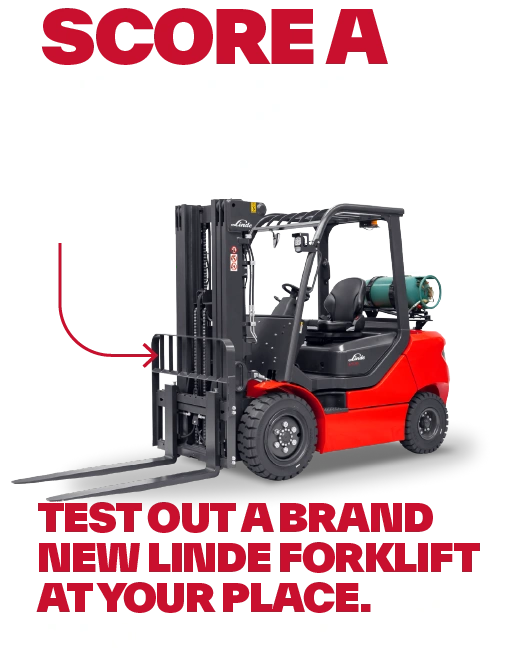
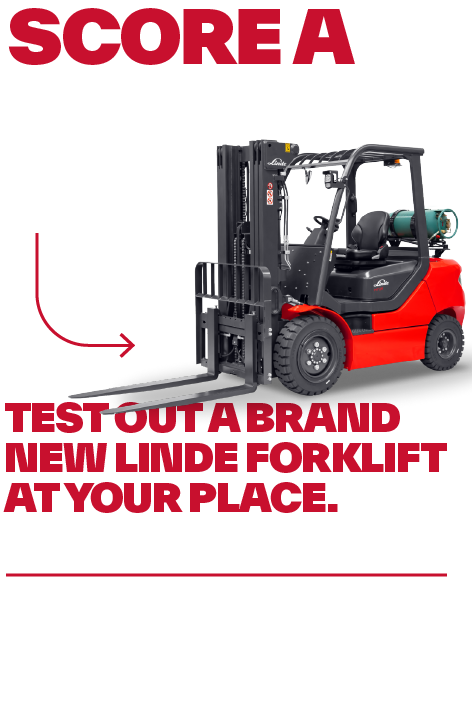
Add price point

diff --git a/linde-free-trial.html b/linde-free-trial.html
@@ -173,6 +173,12 @@
                         <span class="spacer spacer5"></span>
 
                         <h2 class="upperCase vh3 fw1000 balanced brand1"><span class="white">Based In Auckland or Hamilton?</span> Test out a brand new Linde forklift at your place. <span class="white">No strings attached.</span> Free Delivery & Pickup*</h2>
+
+                        <br class="m">
+
+                        <h2 class="upperCase vh3 fw1000 balanced m" style="margin-bottom: 4px !important;">Own One For</h2>
+                        <h2 class="vh5 fw1000 m">$18,650<span class="vh1">+GST</span></h2>
+
                         <p>* Metro areas only, subject to site suitability.</p>
 
                         <span class="spacer spacer2"></span>
@@ -192,9 +198,15 @@
                 </div>
                 
                 <div style="position: absolute; right: 5vw; width: 48vw; top:5vw; z-index:0;" class="d">
-                    <span class="spacer spacer15"></span>
+                    <span class="spacer spacer10"></span>
                     <img src="/images/2026/plate-run-out/machine-crop.webp" class="animated  delayAnimate" style="transform: translate3d(3000px, 0, 0);">
                 </div>
+
+                <span style="position: absolute; right: 5vw; width: 25vw; bottom:5vw; z-index:1;" class="d">
+                    <h2 class="upperCase vh3 fw1000 balanced" style="margin-bottom: 4px !important;">Own One For</h2>
+                    <h2 class="vh5 fw1000">$18,650<span class="vh1">+GST</span></h2>
+                    <span class="spacer spacer5"></span>
+                </span>
             </div>
         </div>
         <span data-src="/images/2026/plate-run-out/newBg-mob@2x-100.jpg"></span><!-- ph -->
@@ -224,7 +236,7 @@
                     <section class=""><!--  content control -->
                         
                         <div class="longDescription">
-                            <h2 class="brandColor balanced phoneCenter">Try the Linde HT25 on your own site— before you commit a cent.</h2>
+                            <h2 class="brandColor balanced phoneCenter">Try the Linde HT25 on your own site before you commit a cent.</h2>
                             <br>
 
                             <h5 class="fw300 phoneCenter">LDX is giving eligible <span class="nowrap">New Zealand</span> businesses a brand-new, 2024-plated Linde 2.5T gas forklift to trial onsite for up to 48 hours — completely free. No rental charges, and no delivery cost to you for the trial. Put it to work in your operation, then decide.</h5>
@@ -657,9 +669,9 @@
         // do animate once
         $(document).ready(function(){
             setTimeout(function() {
-            $('.delayAnimate').addClass('bounceInRight');}, 3000);
+            $('.delayAnimate').addClass('bounceInRight');}, 500);
             setTimeout(function() {
-            $('.delayAnimate1').addClass('bounceInLeft');}, 2000);
+            $('.delayAnimate1').addClass('bounceInLeft');}, 1000);
             setTimeout(function() {
             $('.delayAnimate2').addClass('bounceInRight');}, 2000);
         })

diff --git a/home.html b/home.html
@@ -185,7 +185,7 @@
 
             <div class="innerContent largeH m" style="padding-left: 0; padding-right: 0; padding-bottom: 0;">
                 <div>
-                    <section class="rC " style="padding: 5vh;">
+                    <section class="rC" style="padding: 5vh 8vh;">
 
                         <a href="/linde-free-trial">
                             <img src="/images/2026/plate-run-out/banner-mob.webp">
